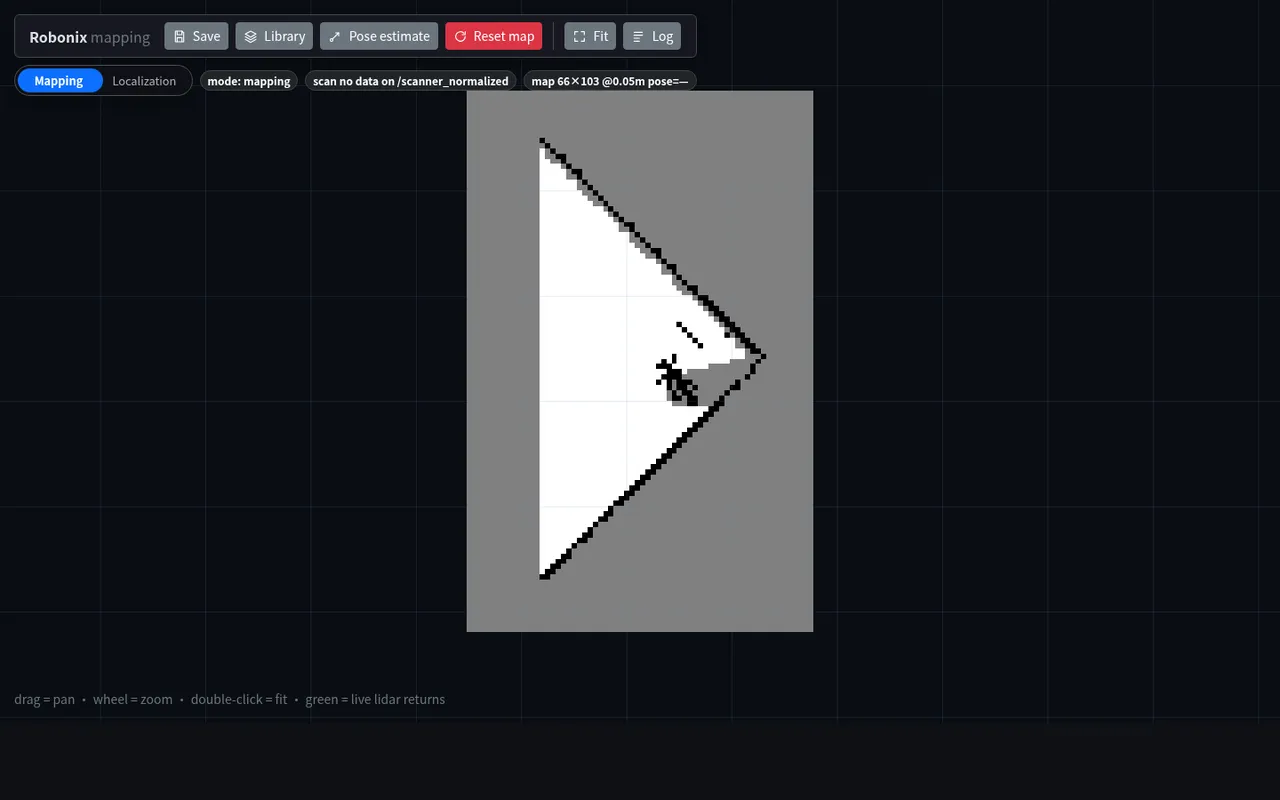
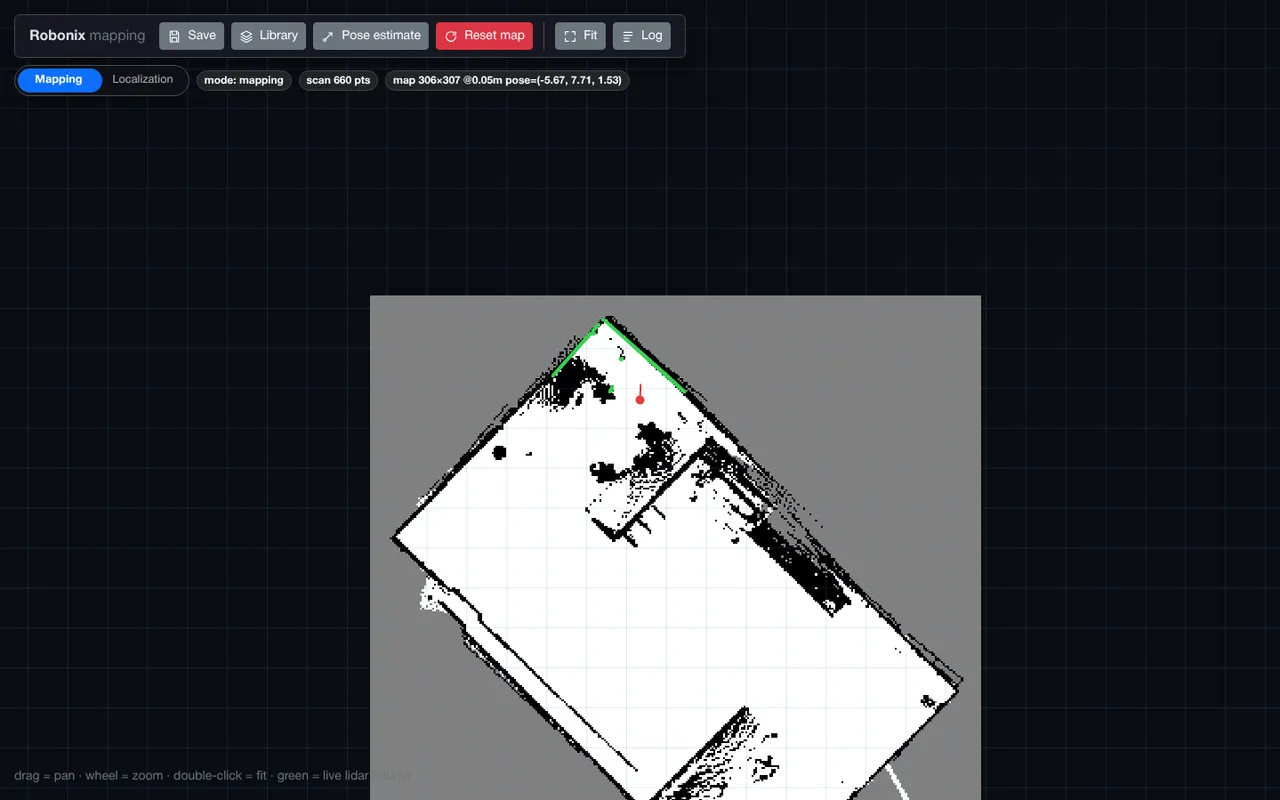
docs: reshoot the web UIs with data in them
The first set was taken on a system that had just booted and with
headless Chrome's --virtual-time-budget, which fast-forwards virtual
time so a WebSocket never gets to deliver anything. Two of the seven
pictures showed a working system doing nothing:

  mapping  pose=— · scan no data      → pose=(-5.67, 7.71, 1.53) · scan 660 pts
  /3d      objects: 0 · points: 0     → objects: 22 · points: 5132
  map      66x103                     → 306x307

Running the explore skill first is what fills them: the robot drives the
room, the map grows, and Scene accumulates 44 objects. The 3D view also
needs a GL context, so Chrome now runs under Xvfb with swiftshader
rather than headless; without it the canvas stays blank and the counter
reads zero whatever the API says.

/3d is now shown too, which the page had described but never pictured.

diff --git a/docs/components/scene.md b/docs/components/scene.md
@@ -201,7 +201,9 @@ system:
 
 ![二维地图页。对象和机器人画在建图服务的占据栅格上。](/img/ui/scene-2d.webp)
 
-![相机页。左右分别是感知流水线实际收到的彩色图与深度图，标题里带编码和时间戳。](/img/ui/scene-cam.webp)
+![三维视图。点云与包围盒，标签里带同类对象的合并计数。](/img/ui/scene-3d.webp)
+
+![相机页。上下分别是感知流水线实际收到的彩色图与深度图，标题里带编码、分辨率和时间戳。](/img/ui/scene-cam.webp)
 
 ![标注与地图页。填入 Map ID 后 Save current 保存；Annotate room 沿房间边界打点画多边形。地图还没保存时，顶部状态显示 unsaved live。](/img/ui/scene-user.webp)
 
